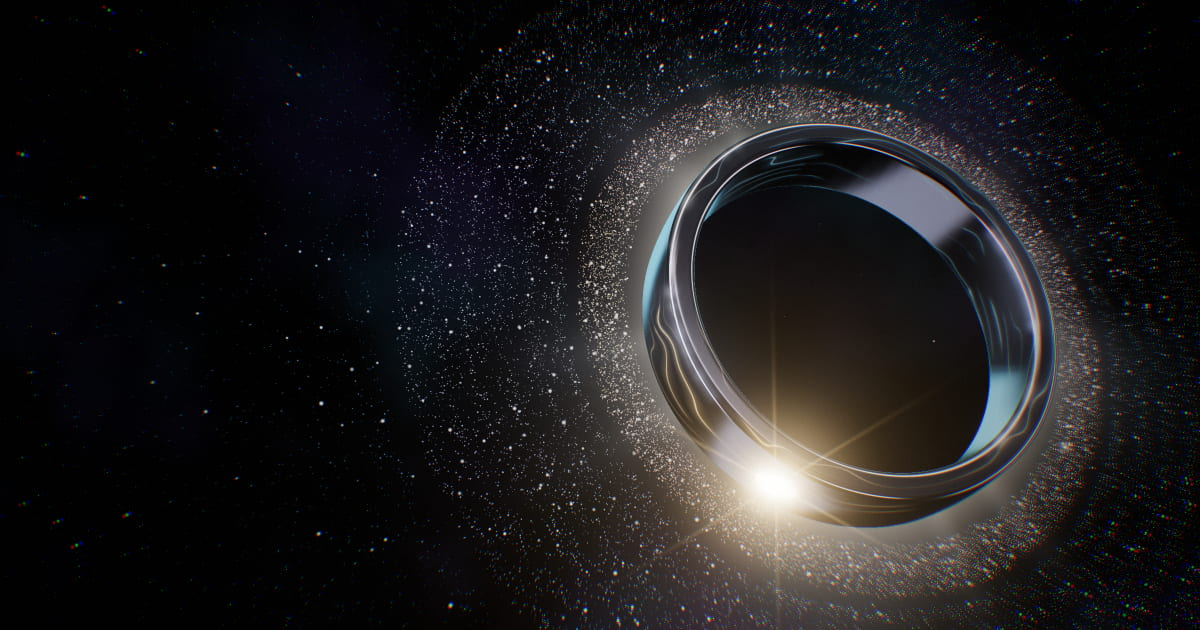
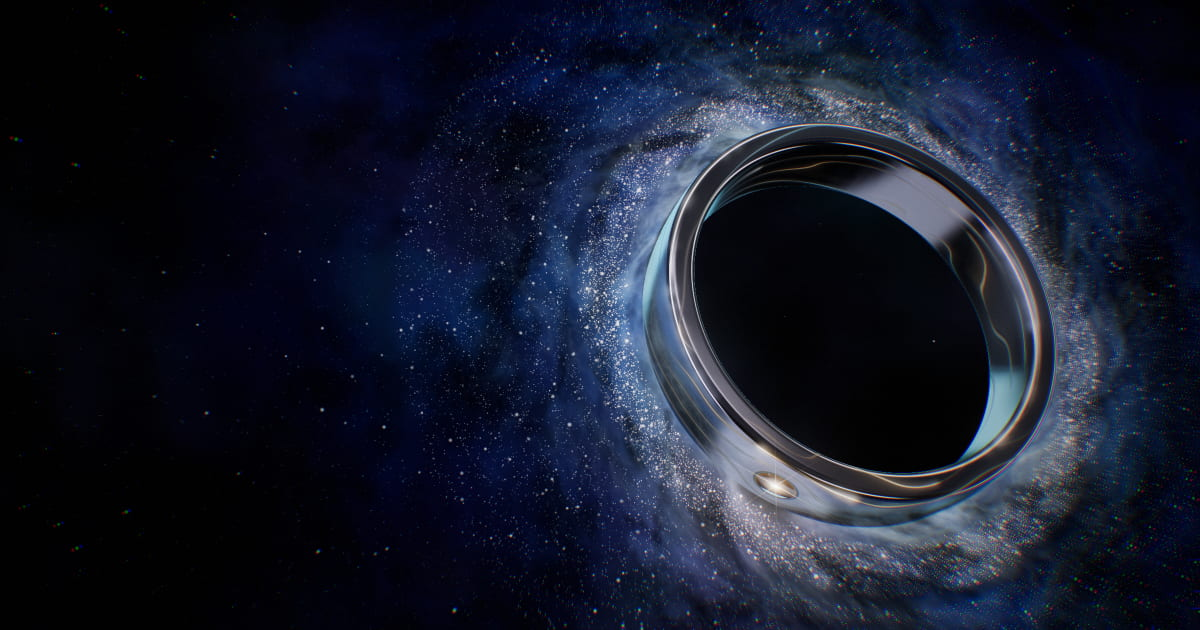
Re-capture the ring card's art from the current scene
The card's background and its engraving were stills of the scene from
before the orbit field's nebula and the lit inscription. They are taken
again with scripts/ring-card-art.mjs: the ring now sits in the nebula with
its glass node, and the holder's number is engraved in gold light. Where the
ink lands on the card is unchanged. CARD_REVISION goes to 3, so browsers and
the card cache take the new pictures.

diff --git a/src/lib/ring-card.ts b/src/lib/ring-card.ts
@@ -35,7 +35,7 @@ export const CARD_H = 630;
  * The drawing's revision. Rendered cards are cached under addresses that
  * include it: bump it whenever the drawing, its art or its fonts change.
  */
-export const CARD_REVISION = 2;
+export const CARD_REVISION = 3;
 
 /**
  * The background: the homepage's ring, posed for the card, its band not yet
